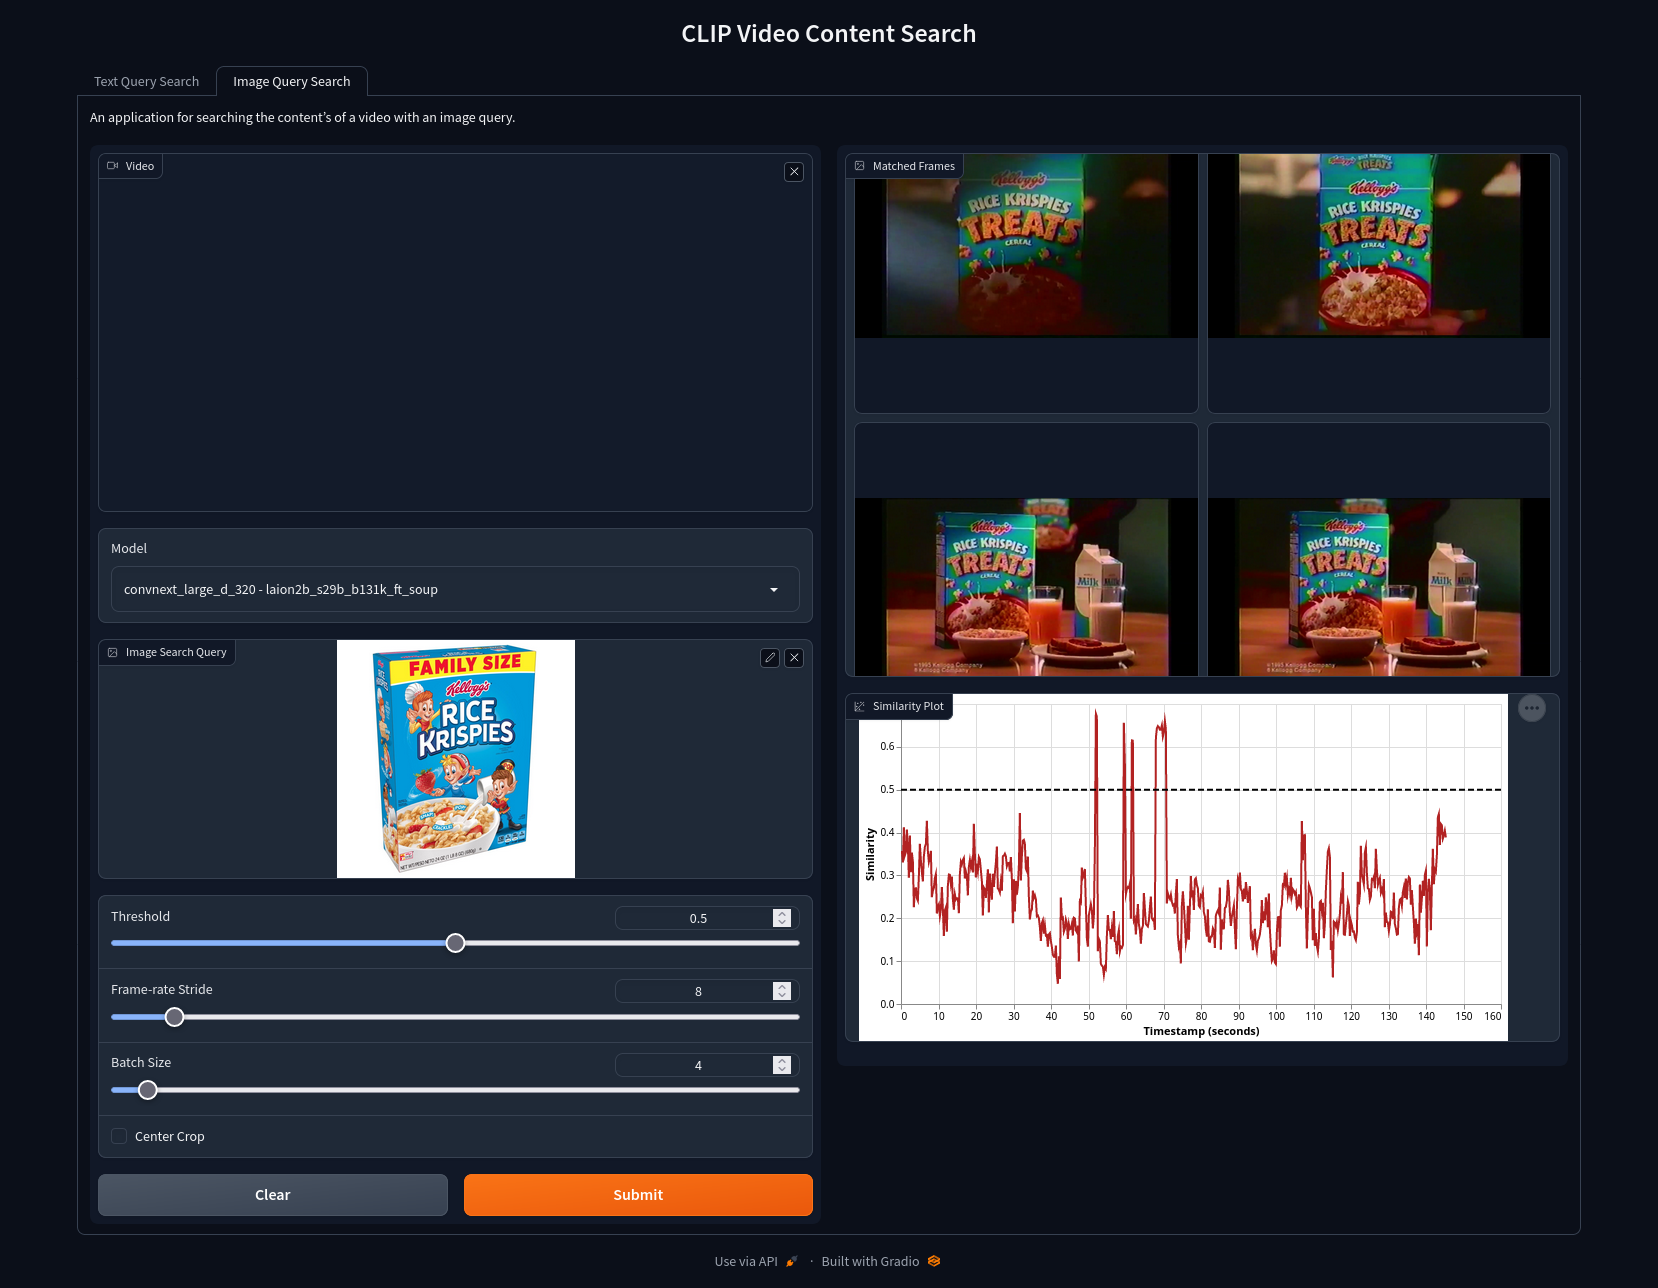
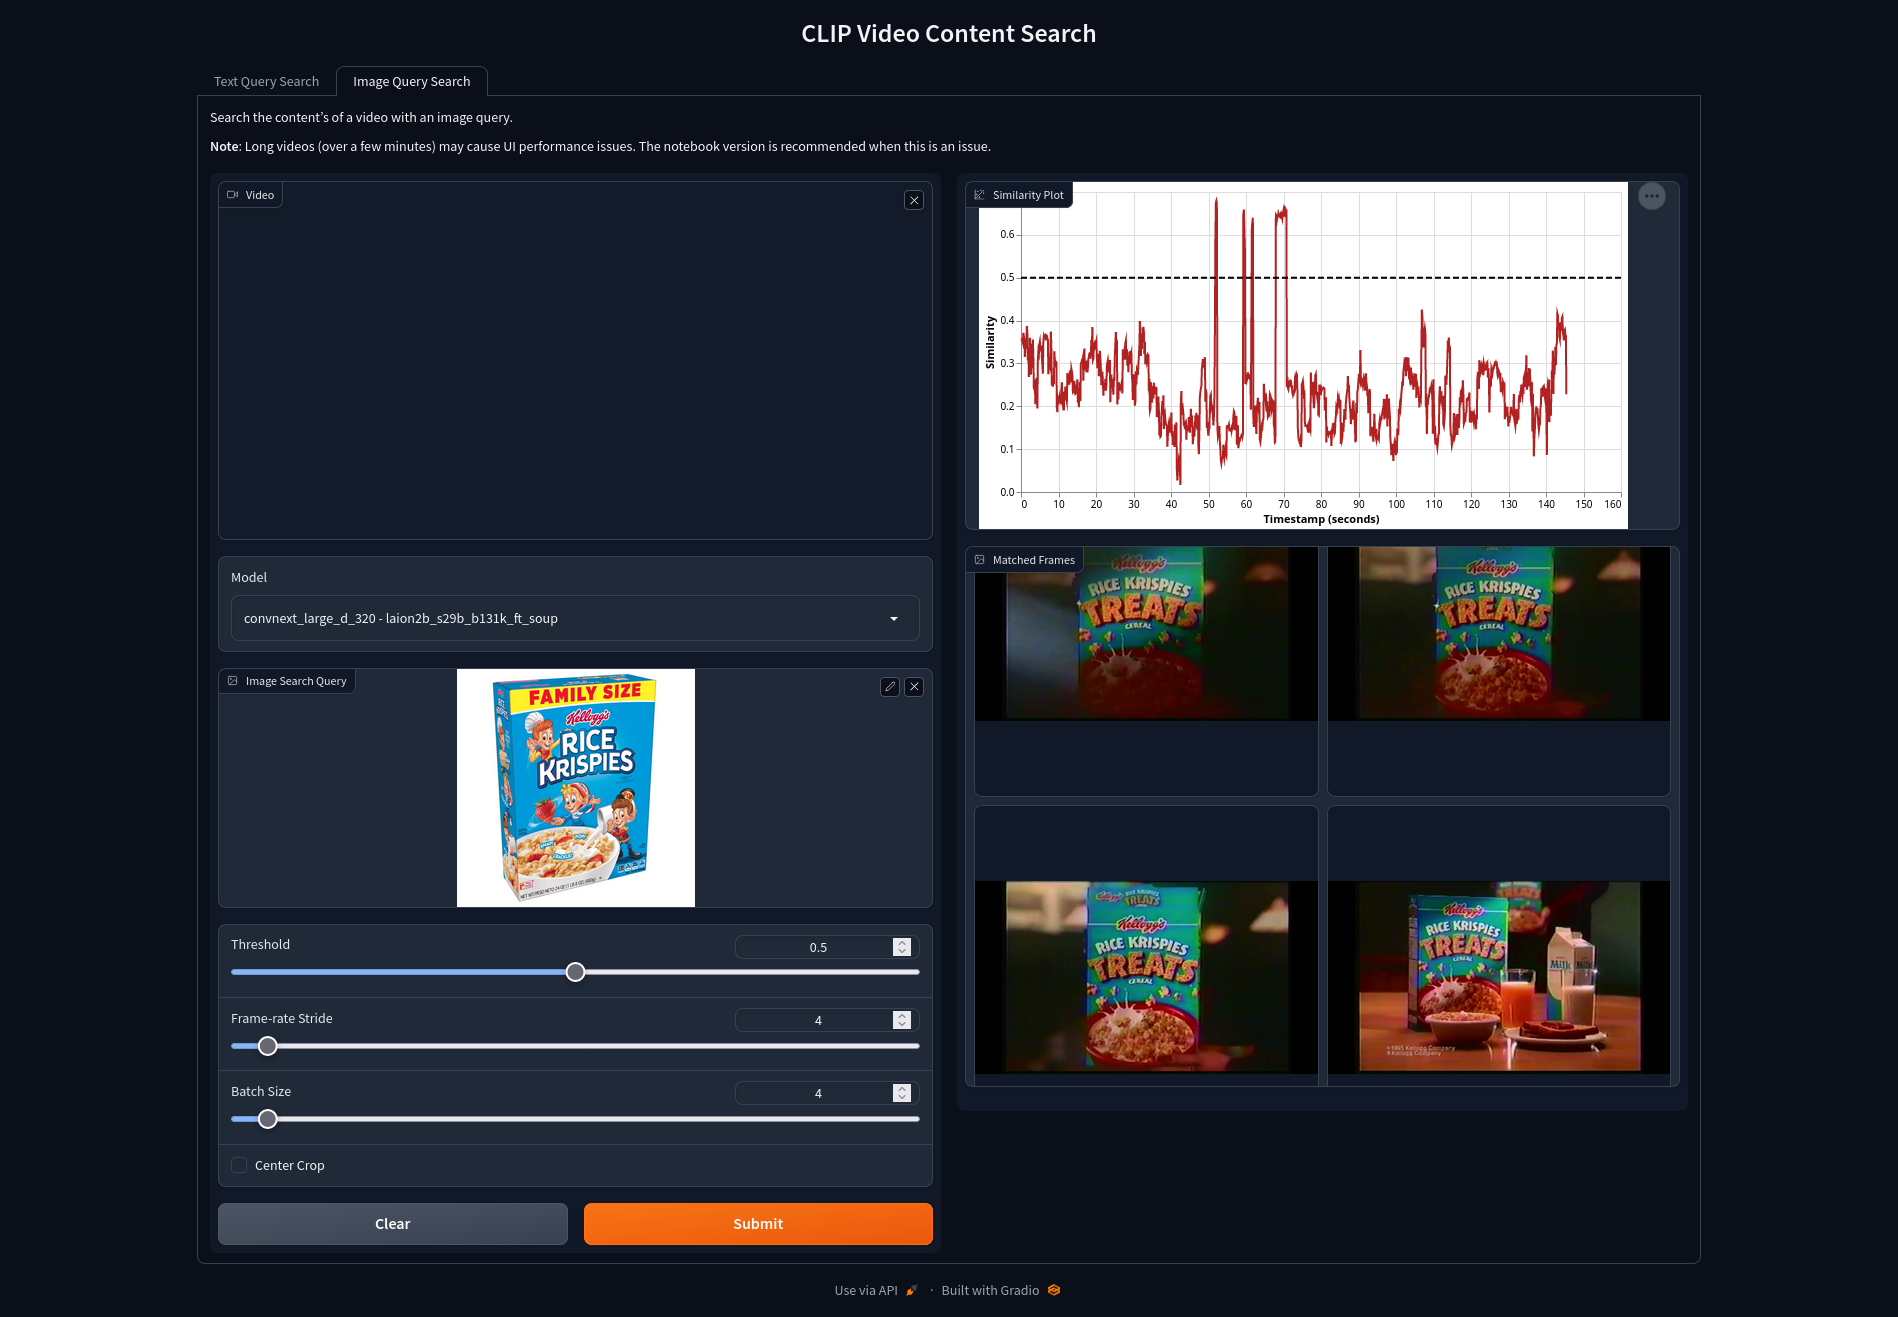
Update app UI

diff --git a/video-search-app.py b/video-search-app.py
@@ -106,7 +106,7 @@ def run(
     ).properties(width=600)
     rule = alt.Chart().mark_rule(strokeDash=[6, 3], size=2).encode(y=alt.datum(thresh))
 
-    return matches[:30], lines + rule
+    return lines + rule, matches[:30]  # Only return up to 30 images to not crash the UI
 
 
 class LoadVideo(Dataset):
@@ -194,8 +194,13 @@ MODELS = {
 
 
 if __name__ == "__main__":
+    desc_text = """
+Search the content's of a video with a text description.
+
+__Note__: Long videos (over a few minutes) may cause UI performance issues. The notebook version is recommended when this is an issue.
+    """
     text_app = gr.Interface(
-        description="Search the content's of a video with a text description.",
+        description=desc_text,
         fn=run,
         inputs=[
             gr.Video(label="Video"),
@@ -212,16 +217,21 @@ if __name__ == "__main__":
             gr.Checkbox(label="Center Crop"),
         ],
         outputs=[
+            gr.Plot(label="Similarity Plot"),
             gr.Gallery(label="Matched Frames").style(
                 columns=2, object_fit="contain", height="auto"
             ),
-            gr.Plot(label="Similarity Plot"),
         ],
         allow_flagging="never",
     )
 
+    desc_image = """
+Search the content's of a video with an image query.
+
+__Note__: Long videos (over a few minutes) may cause UI performance issues. The notebook version is recommended when this is an issue.
+    """
     image_app = gr.Interface(
-        description="Search the content's of a video with an image query.",
+        description=desc_image,
         fn=run,
         inputs=[
             gr.Video(label="Video"),
@@ -238,10 +248,10 @@ if __name__ == "__main__":
             gr.Checkbox(label="Center Crop"),
         ],
         outputs=[
+            gr.Plot(label="Similarity Plot"),
             gr.Gallery(label="Matched Frames").style(
                 columns=2, object_fit="contain", height="auto"
             ),
-            gr.Plot(label="Similarity Plot"),
         ],
         allow_flagging="never",
     )
